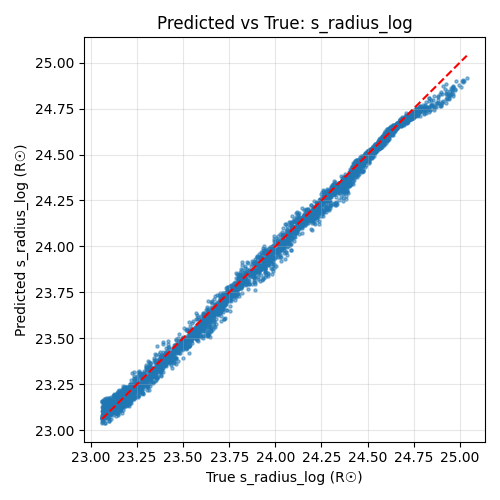
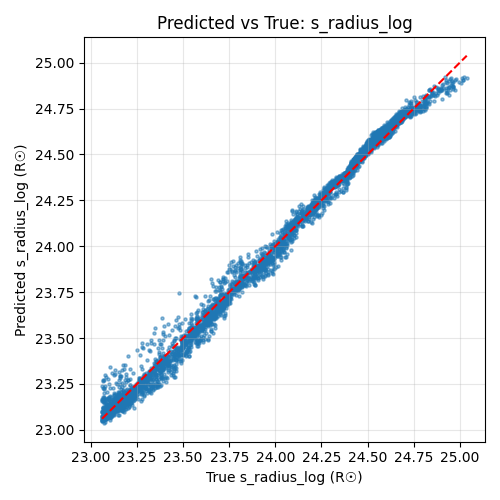
masking changes, accuracy decreases

Changed region(s): [[0.18, 0.15, 0.93, 0.87], [0.06, 0.84, 0.15, 0.87], [0.06, 0.75, 0.15, 0.78]]

diff --git a/ANN/ANN2.py b/ANN/ANN2.py
@@ -42,16 +42,33 @@ def undo_log_radii(arr, label_names, epsilon):
 wavelength = np.loadtxt(wavelength_file)[:, 0]
 assert len(flux_cols) == len(wavelength), "Flux columns != wavelength bins"
 
+# === MASKING ADDITION ===
+def build_wavelength_mask(wl):
+    return (
+        (wl <= 0.6860) |
+        ((wl >= 0.6880) & (wl <= 0.7600)) |
+        ((wl >= 0.7660) & (wl <= 0.8210)) |
+        (wl >= 0.8240)
+    )
+
+
+mask = build_wavelength_mask(wavelength)
+print(f"Keeping {mask.sum()} / {len(mask)} wavelength bins")
+
+bad = ~mask
+print("Masked wavelength ranges:")
+edges = np.where(np.diff(bad.astype(int)) != 0)[0]
+for i in edges:
+    print(wavelength[i], wavelength[i+1])
+
 # ========== 2. BUILD INPUTS & TARGETS ==========
-X = df[flux_cols].values
+X_full = df[flux_cols].values
+X = X_full[:, mask]                # APPLY MASK
+flux_cols = np.array(flux_cols)[mask].tolist()
 y = df[label_names].values
 
 # ========== 3. NORMALIZATION FUNCTION ==========
 def normalize_synthetic(flux_primary, flux_secondary):
-    """
-    Normalize both primary and secondary flux by median of primary flux
-    This keeps relative brightness ratios intact.
-    """
     norm = np.median(flux_primary)
     return flux_primary / norm, flux_secondary / norm
 
@@ -244,10 +261,34 @@ for i, name in enumerate(label_names):
     plt.savefig(os.path.join(output_dir, f"pred_vs_true_{name}.png"))
     plt.close()
 
+
+flux_full = df[[c for c in df.columns if c.startswith("flux_")]].iloc[0].values
+mask_full = build_wavelength_mask(wavelength)
+flux_masked = flux_full.copy()
+flux_masked[~mask_full] = np.nan
+
+plt.figure(figsize=(10,4))
+plt.plot(wavelength, flux_full, alpha=0.3, label="Original")
+plt.plot(wavelength, flux_masked, lw=1, label="Masked (with gaps)")
+plt.legend()
+plt.xlabel("Wavelength")
+plt.ylabel("Flux")
+plt.title("Wavelength Mask Check (true gaps)")
+plt.tight_layout()
+plt.savefig(os.path.join(output_dir, "masking_check.png"))
+plt.close()
+
+
 # ========== 15. INFERENCE ON NEW REAL SPECTRUM ==========
 def predict_stellar_params_from_spectrum(filename, model, x_scaler, y_scaler, epsilon=1e-5):
     data = np.loadtxt(filename)
+
+    wl = data[:, 0]
     flux = data[:, 1]
+
+    mask = build_wavelength_mask(wl)
+    flux = flux[mask]
+
 
     flux = flux / np.median(flux)
     flux = flux.reshape(1, -1)

diff --git a/README.md b/README.md
@@ -1,35 +1,46 @@
 ### Updates explained:
 
-- Remade a CLEAN dataset by removing our noise injection in our generation stage and moving it into our ANN stage
-    - This allows us to finetune the amount of noise our dataset has and it's impact on improving the accuracy of our ANN
-- Prevously, our problems with the way radius was being returned stemmed from an error in the file parsing stage of turning our dataset into a CSV, negligience on my end and should now be fixed. With this new fix, our MRE goes from 1.51% and 2.46% to 0.07% to 0.09% (primary and secondary respectively) giving us an avg improvement of 24.45%
-- Also, I added a side by side comparison of KOI 1422's truth values vs predicted values, as well as their error. For radius, note that there is a difference in units which I'm lwk not gonna fix/convert until later.
+- Here we implement masking, to see results without masking, refer to the previous git commit. Additionally, we reference the[LRLRPayne: Stellar parameters and abundances from low-resolution spectra](https://arxiv.org/pdf/2511.06546) with our masking approach in which we add a wavelength mask function after loading the wavelength in our 'ANN2.py' file. However we don't interpolate or extrapolate because:
+    - mask keeps same bins
+    - scaler expects masked shape
+    - ANN input matches exactly
+- This differes from the LRPayne since the mask during χ² determination whereas we mask "inside" the ANN (technically before the ANN forward pass, like we do with injection). You can see what the masked spectrum looks like in. 
+- Also note to self, we write masking function in microns, and we keep to the EXACT values Kendall gave us and DON'T pad Angstroms on both sides. 
+
+0.6859282598158023 0.6860227823557925
+0.6879132331555987 0.6880077556955889
+0.7599394086282114 0.7600339311682016
+0.7659888511875909 0.7660833737275813
+0.8209064469219584 0.8210009694619487
+0.8239311682016481 0.8240256907416383
+
+![Masking Check](/ANN-for-Stellar-Label-Determination/ANN/results/masking_check.png)
+
 
 ### TO DO NEXT
 
-- I'll be uploading the ANN's implementation on masking next, the code is done but I wanted two seperate git commits for such
 - I also have to updated the way we return our Error evaluations, right now we return both linear and log radius, I'm just abiding by log for now, I'll fix this sometime eventually
 
 ### RESULTS
 
 | Parameter | MRE |
 |---|---|
-| p_teff | 0.66% |
-| s_teff | 0.70% |
-| p_logg | 0.14% |
-| s_logg | 0.14% |
-| p_radius_log | 0.07% |
-| s_radius_log | 0.09% |
+| p_teff | 0.85% |
+| s_teff | 0.81% |
+| p_logg | 0.13% |
+| s_logg | 0.22% |
+| p_radius_log | 0.05% |
+| s_radius_log | 0.12% |
 
 
 | Parameter | Predicted | Truth | Error |
 |---|---|---|---|
-| p_teff | 3709.5198 | 3665 | 1.2% |
-| s_teff | 3495.2395 | 3372 | 3.6% |
-| p_logg | 4.8933 | 5.03 | -0.14 dex |
-| s_logg | 4.9380 | 4.53 | +0.41 dex |
-| p_radius_log | 24672921600 | 0.41 | 13.4% |
-| s_radius_log | 28766507008 | 0.67 | 38.3 % |
+| p_teff | 3892.3513 | 3665 | +6.20 % |
+| s_teff | 3711.8232 | 3372 | +10.07 % |
+| p_logg | 4.8843 | 5.03 | −0.146 dex |
+| s_logg | 4.9140| 4.53 | +0.384 dex |
+| p_radius_log | 25460154368 | 0.41 | ?? |
+| s_radius_log | 24998350848 | 0.67 | ?? |
 
 
 
